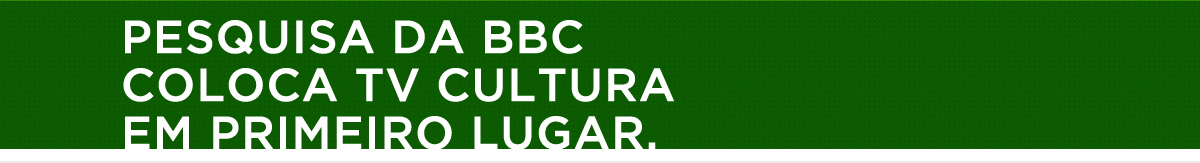
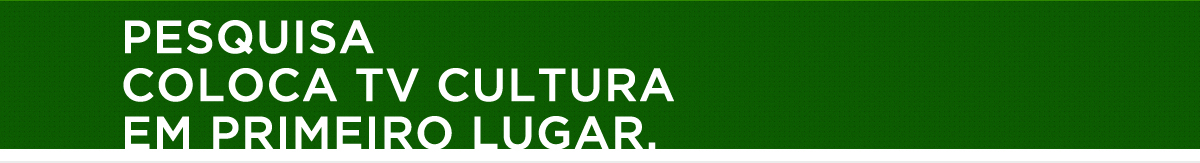
topo novo bg tudo

Changed region(s): [[0.3083, 0.1227, 0.4933, 0.3374]]

diff --git a/web/portal/js/qualidade/qualidade.css b/web/portal/js/qualidade/qualidade.css
@@ -1,3 +1,5 @@
+body{background:url(/portal/images/qualidade/bg-tudo.jpg) repeat-x!important;}
+
 .vco-storyjs{}.vco-storyjs div *{-webkit-box-sizing:content-box;-moz-box-sizing:content-box;box-sizing:content-box;}
 .vco-storyjs h1,.vco-storyjs h2,.vco-storyjs h3,.vco-storyjs h4,.vco-storyjs h5,.vco-storyjs h6,.vco-storyjs p,.vco-storyjs blockquote,.vco-storyjs pre,.vco-storyjs a,.vco-storyjs abbr,.vco-storyjs acronym,.vco-storyjs address,.vco-storyjs cite,.vco-storyjs code,.vco-storyjs del,.vco-storyjs dfn,.vco-storyjs em,.vco-storyjs img,.vco-storyjs q,.vco-storyjs s,.vco-storyjs samp,.vco-storyjs small,.vco-storyjs strike,.vco-storyjs strong,.vco-storyjs sub,.vco-storyjs sup,.vco-storyjs tt,.vco-storyjs var,.vco-storyjs dd,.vco-storyjs dl,.vco-storyjs dt,.vco-storyjs li,.vco-storyjs ol,.vco-storyjs ul,.vco-storyjs fieldset,.vco-storyjs form,.vco-storyjs label,.vco-storyjs legend,.vco-storyjs button2,.vco-storyjs table,.vco-storyjs caption,.vco-storyjs tbody,.vco-storyjs tfoot,.vco-storyjs thead,.vco-storyjs tr,.vco-storyjs th,.vco-storyjs td,.vco-storyjs .vco-container,.vco-storyjs .content-container,.vco-storyjs .media,.vco-storyjs .text,.vco-storyjs .vco-slider,.vco-storyjs .slider,.vco-storyjs .date,.vco-storyjs .title,.vco-storyjs .messege,.vco-storyjs .map,.vco-storyjs .credit,.vco-storyjs .caption,.vco-storyjs .vco-feedback,.vco-storyjs .vco-feature,.vco-storyjs .toolbar,.vco-storyjs .marker,.vco-storyjs .dot,.vco-storyjs .line,.vco-storyjs .flag,.vco-storyjs .time,.vco-storyjs .era,.vco-storyjs .major,.vco-storyjs .minor,.vco-storyjs .vco-navigation,.vco-storyjs .start,.vco-storyjs .active{margin:0;padding:0;border:0;font-weight:normal;font-style:normal;font-size:100%;line-height:1;font-family:inherit;width:auto;float:none;}
 .vco-storyjs h1,.vco-storyjs h2,.vco-storyjs h3,.vco-storyjs h4,.vco-storyjs h5,.vco-storyjs h6{clear:none;}
@@ -284,6 +286,7 @@
 /* AJUSTES ARTES TOPO E MENU */
 #barra-site{background:url();height: 170px;margin:0 0 0 42px!important;cursor:pointer}
 #barra-site .topo-timeline{width: 970px;min-height: 56px !important;}
+#barra-site img{margin: 18px 0 0 -420px;}
 .a1964 .menu-interna {float: right;width: auto ;}
 .a1964 .menu-interna li {width: 120px;height: 54px;background-color: transparent;}
 .a1964 .menu-interna a{font-size: 14px;color:#2c9700;display: block;float: left;padding: 16px 34px;text-transform: uppercase;font-weight: bolder;}

diff --git a/apps/frontend/templates/sites/qualidade/indexSuccess.php b/apps/frontend/templates/sites/qualidade/indexSuccess.php
@@ -12,7 +12,7 @@
      	
      	<!-- BARRA SITE -->
   		<div id="barra-site" title="<?php echo $section->getTitle() . "  ". $section->getDescription() ?>">
-					<a href="#"><img src="http://cmais.com.br/portal/images/qualidade/topo.jpg"></a>
+					<a href="#"><img src="http://cmais.com.br/portal/images/qualidade/topo_premio.png"></a>
 				
 		
 		  <!-- /BARRA SITE -->  
